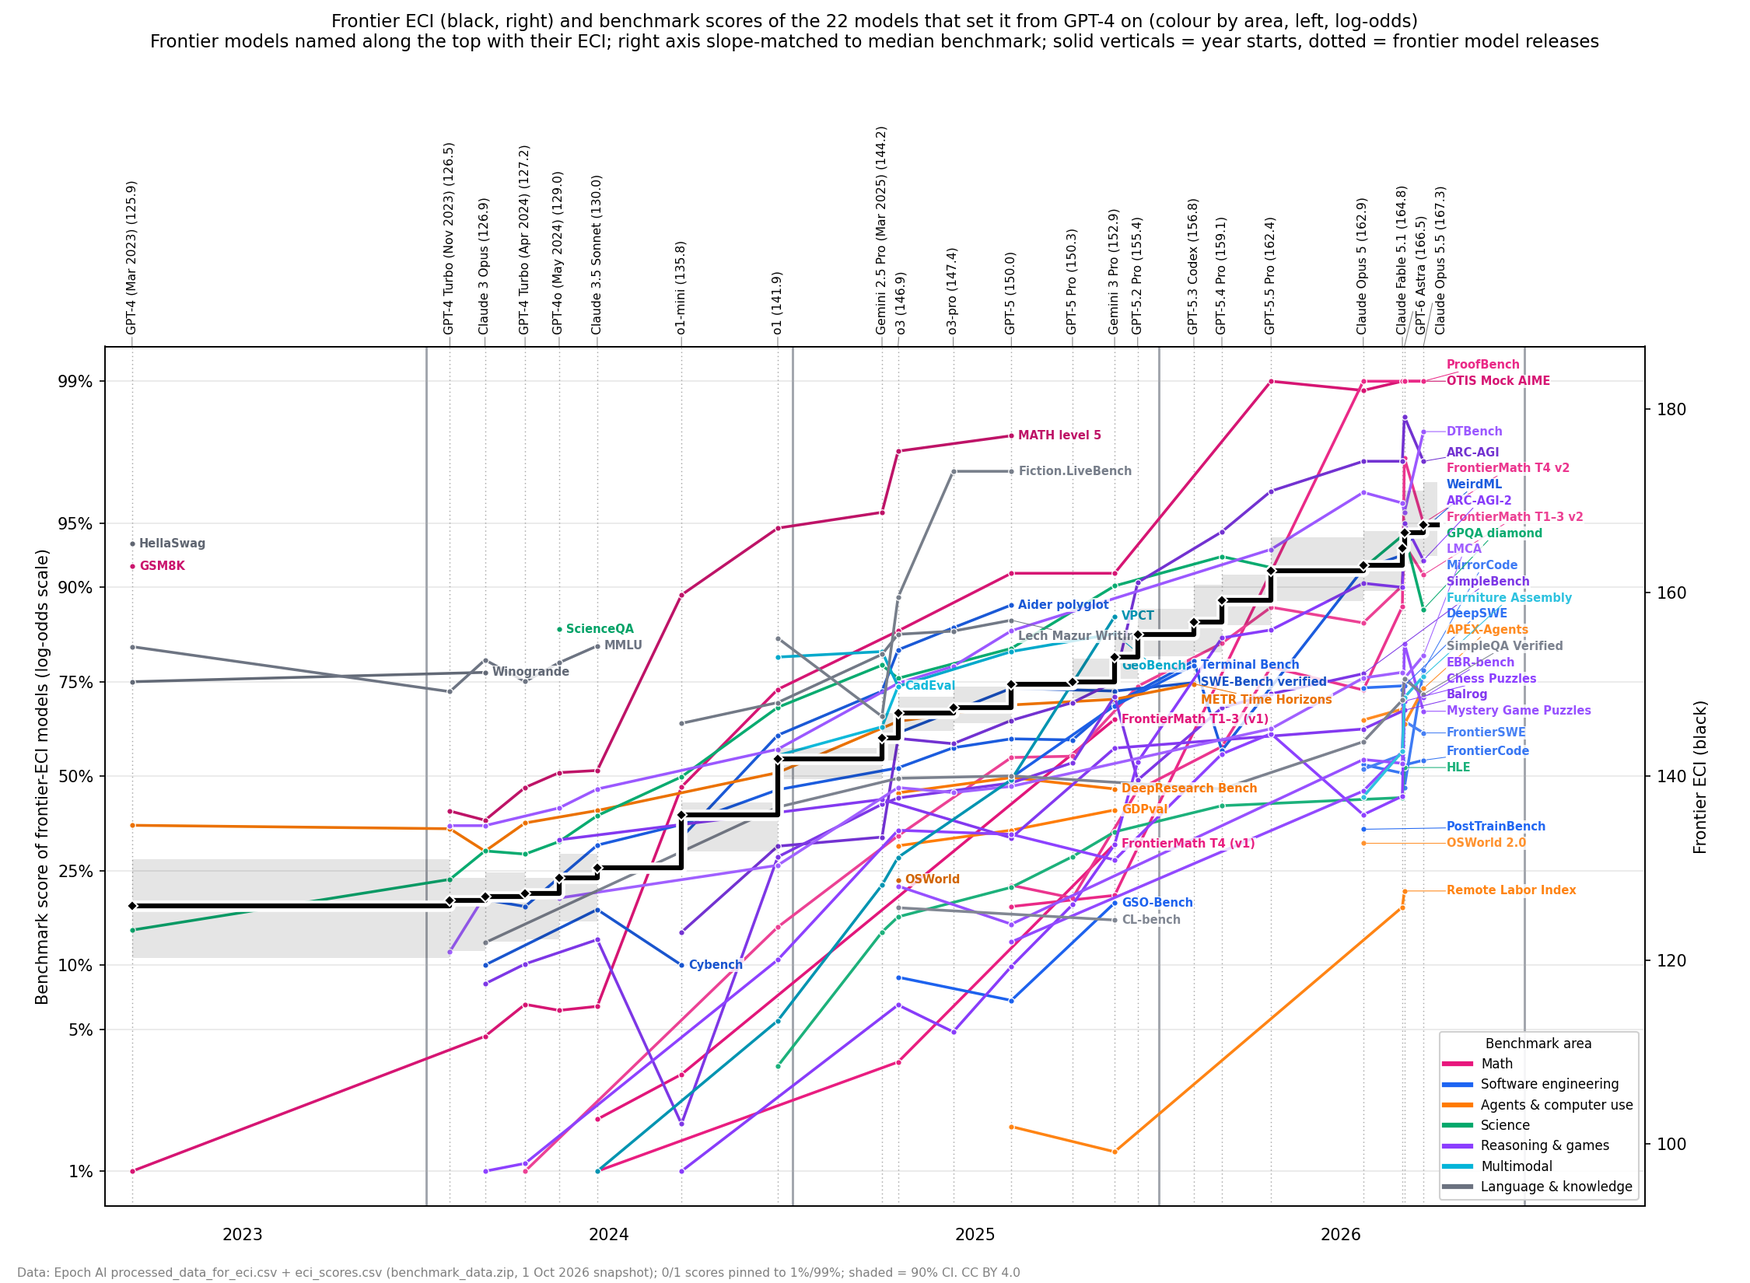
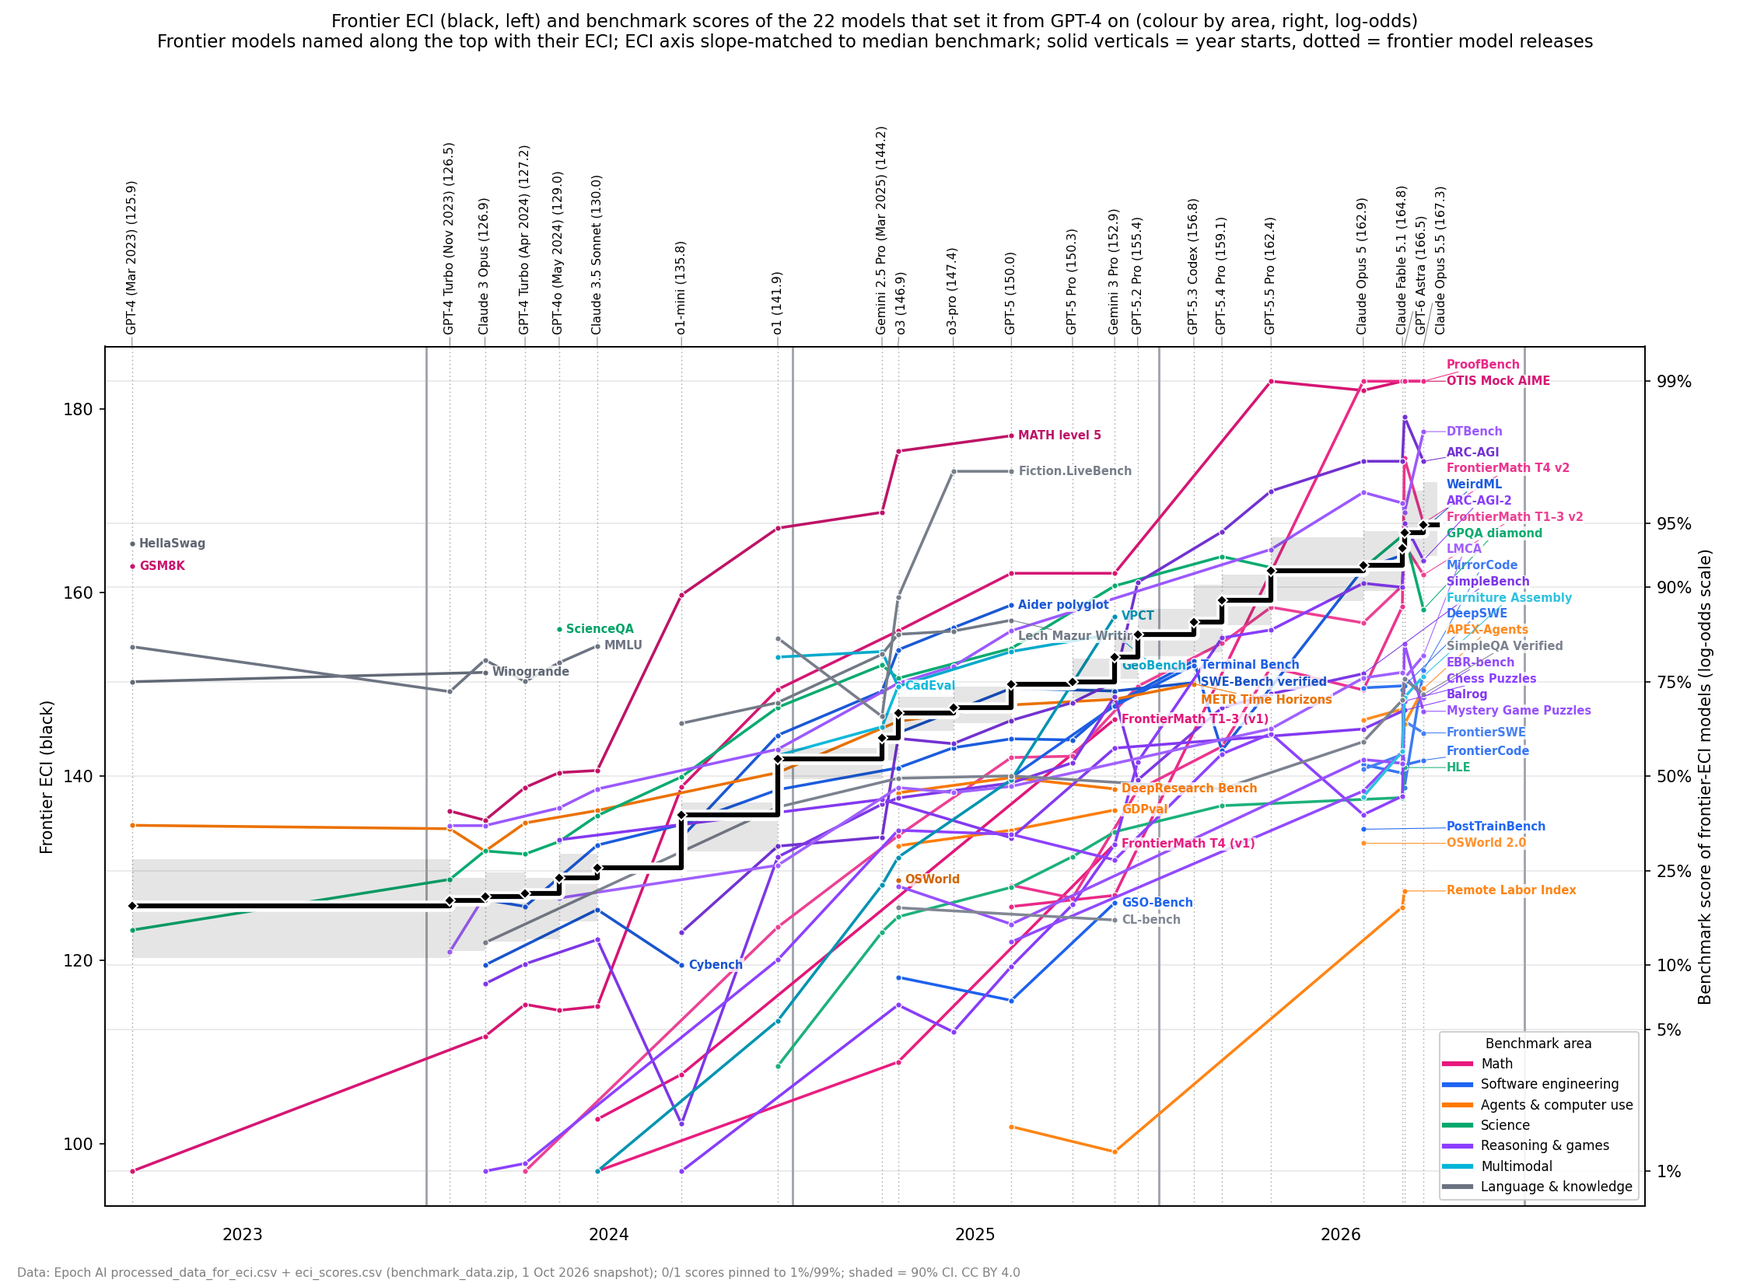
Start model labels at their leader line; put ECI on the left axis, log-odds on the right

diff --git a/index.html b/index.html
@@ -57,7 +57,7 @@ button:focus-visible,select:focus-visible{outline:2px solid var(--accent);outlin
 <div id="fallback" hidden><p class="lede">The interactive chart could not load here, so this is the static version.</p><img alt="Frontier ECI and benchmark scores chart" style="max-width:100%;height:auto" src="figures/eci_frontier_all.png"></div>
 <div class="notes">
  <p>Data: Epoch AI's own ECI fit input (processed_data_for_eci.csv) and published ECI scores (eci_scores.csv) from benchmark_data.zip, snapshot of 1 Oct 2026, shown from GPT-4 (14 Mar 2023) onward. Each model's lab is the first organisation Epoch lists for it; labs with at least five models in the period can be chosen above. Every score is already floor- and ceiling-adjusted: (raw − random-guess baseline) ÷ (attainable ceiling − baseline), clipped to [0, 1], taking the best version within each model group. Frontier ECI is the running maximum by release date, over all labs or over the chosen lab's models; where several models share a date only the highest counts. <span id="count"></span> ECIs come from Epoch's joint fit over every lab's models (including the few pre-GPT-4 models not shown), so a lab's frontier is directly comparable with the overall one.</p><p>Areas follow the primary domain tag on Epoch's ECI page, grouped into seven: Math; Software engineering (includes Cybench); Agents &amp; computer use; Science; Reasoning &amp; games (conceptual reasoning plus games); Multimodal; Language &amp; knowledge (language understanding, world knowledge, long context, writing). Seven benchmarks have no tag there and were assigned by hand: METR Time Horizons, DeepResearch Bench (agents), LMCA (reasoning), Lech Mazur Writing (language), GeoBench (multimodal), and the two FrontierMath v1 sets (math).</p>
- <p>Solid vertical lines mark the start of each year; dotted lines mark the release of each frontier model. The slope-matched right axis is scaled so a benchmark with the median fitted slope (0.107 logits per ECI point) runs parallel to the ECI line; steeper benchmarks climb faster than it. Scores of exactly 0 or 1 are pinned to 1% and 99%. Data CC BY 4.0, Epoch AI.</p>
+ <p>Solid vertical lines mark the start of each year; dotted lines mark the release of each frontier model. The slope-matched ECI axis is scaled so a benchmark with the median fitted slope (0.107 logits per ECI point) runs parallel to the ECI line; steeper benchmarks climb faster than it. Scores of exactly 0 or 1 are pinned to 1% and 99%. Data CC BY 4.0, Epoch AI.</p>
 </div>
 </main>
 <script>
@@ -82,7 +82,7 @@ function derive(){
  D.eci=F.map(o=>[o.d,o.m,o.e,o.lo,o.hi]);D.alleci=M.filter((o,i)=>mine.has(i)).map(o=>[o.d,o.m,o.e]);D.overall=lab?OV.map(o=>[o.d,o.m,o.e]):null;
  const who=lab?lab+"'s":'',n=F.length;
  document.getElementById('title').textContent=(lab?who+' frontier ECI':'Frontier ECI')+' and the benchmark scores behind it';
- document.getElementById('lede').textContent='Coloured lines are the benchmark scores of the '+n+(lab?' '+lab:'')+' models that set a new '+(lab?lab+' best':'frontier')+' ECI from GPT-4 onward (named along the top), in log-odds (left axis). Colour shows each benchmark’s area; tap an area to isolate it. The thick line is '+(lab?who+' frontier':'frontier')+' ECI itself (right axis), with its 90% interval'+(lab?'; the dashed grey line is the overall frontier across all labs.':'.');
+ document.getElementById('lede').textContent='Coloured lines are the benchmark scores of the '+n+(lab?' '+lab:'')+' models that set a new '+(lab?lab+' best':'frontier')+' ECI from GPT-4 onward (named along the top), in log-odds (right axis). Colour shows each benchmark’s area; tap an area to isolate it. The thick line is '+(lab?who+' frontier':'frontier')+' ECI itself (left axis), with its 90% interval'+(lab?'; the dashed grey line is the overall frontier across all labs.':'.');
  document.getElementById('count').textContent='The '+n+' record-setting models contribute '+nf.toLocaleString()+' of the '+nall.toLocaleString()+' '+(lab?lab+' ':'')+'scores shown, on '+nb+' of the '+B.length+' benchmarks.';
  [...sel.options].forEach(o=>{const d=B.find(x=>x.name===o.value);if(d)o.textContent=d.name+(d.rel?' ('+d.rel.slice(0,4)+')':'')+(d.fr.length?'':' – no record-setting-model scores')});
  document.title=lab?lab+' frontier ECI and benchmark scores':'ECI benchmarks in log-odds, with frontier ECI';
@@ -101,6 +101,9 @@ let view='frontier',ax='aligned',hl='',labels=innerWidth>=640;
 function short(n){return n.replace('FrontierMath-Tiers-1-3-v2-Private','FrontierMath T1–3 v2').replace('FrontierMath-Tier-4-v2-Private','FrontierMath T4 v2')
  .replace('FrontierMath-2025-02-28-Private','FrontierMath T1–3 (v1)').replace('FrontierMath-Tier-4-2025-07-01-Private','FrontierMath T4 (v1)').replace('OTIS Mock AIME 2024-2025','OTIS Mock AIME')}
 const END=RAW.snapshot,DAY=864e5,GUTTER='2026-06-01',GX='2026-10-12';
+// rotated annotations are centred on their anchor, so offset each by half its length to start it at the leader line
+const tctx=document.createElement('canvas').getContext('2d');
+function textW(t,size){tctx.font=size+'px "Public Sans", system-ui, sans-serif';return tctx.measureText(t).width}
 function modelAnns(){
  const el=document.getElementById('plot'),narrow=innerWidth<640;
  const W=Math.max(200,el.clientWidth-(narrow?80:124));
@@ -110,8 +113,8 @@ function modelAnns(){
  it.forEach((o,k)=>{o.lx=o.px;if(k&&o.lx<it[k-1].lx+g)o.lx=it[k-1].lx+g});
  for(let k=it.length-1;k>=0;k--){const cap=k===it.length-1?W-4:it[k+1].lx-g;if(it[k].lx>cap)it[k].lx=cap}
  const mut=css('--muted'),ink=css('--ink');
- return {anns:it.map(o=>({x:o.d,y:1,xref:'x',yref:'paper',ax:o.lx-o.px,ay:-16,axref:'pixel',ayref:'pixel',text:o.m+' ('+o.e.toFixed(1)+')',textangle:-90,
-   xanchor:'center',yanchor:'bottom',showarrow:true,arrowhead:0,arrowwidth:0.7,arrowcolor:mut,standoff:0,font:{size:narrow?9:10.5,color:ink},
+ return {anns:it.map(o=>({x:o.d,y:1,xref:'x',yref:'paper',ax:o.lx-o.px,ay:-16-textW(o.m+' ('+o.e.toFixed(1)+')',narrow?9:10.5)/2,axref:'pixel',ayref:'pixel',text:o.m+' ('+o.e.toFixed(1)+')',textangle:-90,
+   xanchor:'center',yanchor:'middle',showarrow:true,arrowhead:0,arrowwidth:0.7,arrowcolor:mut,standoff:0,font:{size:narrow?9:10.5,color:ink},
    hovertext:o.m+': ECI '+o.e.toFixed(1),captureevents:false})),
   lines:it.map(o=>({type:'line',xref:'x',yref:'paper',x0:o.d,x1:o.d,y0:0,y1:1,line:{color:ink,width:0.8,dash:'dot'},layer:'below',opacity:.32}))};
 }
@@ -174,9 +177,9 @@ function build(){
  const layout={paper_bgcolor:'rgba(0,0,0,0)',plot_bgcolor:'rgba(0,0,0,0)',font:{family:'Public Sans, system-ui, sans-serif',color:ink,size:12},
   margin:{l:narrow?42:62,r:narrow?38:62,t:narrow?175:185,b:40},hovermode:'closest',dragmode:narrow?false:'zoom',
   xaxis:{type:'date',showgrid:false,zeroline:false,dtick:'M12',tick0:'2023-01-01',tickformat:'%Y',ticklabelmode:'period',ticks:'',range:['2023-02-15',labels?'2027-06-15':'2026-10-31'],tickfont:{color:mut}},annotations:(labels?labelAnns():[]).concat(MA.anns),shapes:bandShapes.concat(['2024','2025','2026','2027'].map(y=>({type:'line',xref:'x',yref:'paper',x0:y+'-01-01',x1:y+'-01-01',y0:0,y1:1,line:{color:mut,width:1.4},opacity:.55,layer:'below'}))).concat(MA.lines),
-  yaxis:{title:narrow?null:{text:'Benchmark score (log-odds scale)',font:{color:mut}},range:[-5,5],gridcolor:grid,zeroline:false,
+  yaxis:{title:narrow?null:{text:'Benchmark score (log-odds scale)',font:{color:mut}},side:'right',range:[-5,5],gridcolor:grid,zeroline:false,
    tickvals:pct.map(p=>Math.log(p/(1-p))),ticktext:pct.map(p=>(p*100)+'%'),tickfont:{color:mut}},
-  yaxis2:{title:narrow?null:{text:(lab?lab+' frontier':'Frontier')+' ECI',font:{color:ink}},overlaying:'y',side:'right',range:r2,showgrid:false,zeroline:false,tickfont:{color:ink},dtick:10},
+  yaxis2:{title:narrow?null:{text:(lab?lab+' frontier':'Frontier')+' ECI',font:{color:ink}},overlaying:'y',side:'left',range:r2,showgrid:false,zeroline:false,tickfont:{color:ink},dtick:10},
   hoverlabel:{font:{family:'Public Sans, system-ui, sans-serif'}}};
  Plotly.react('plot',tr,layout,{responsive:true,displaylogo:false,modeBarButtonsToRemove:['lasso2d','select2d']});
 }
@@ -188,6 +191,7 @@ sel.onchange=()=>{hl=sel.value;build()};
 ls.onchange=()=>{lab=ls.value;derive();build();try{history.replaceState(null,'',lab?'#lab='+encodeURIComponent(lab):location.pathname+location.search)}catch(e){}};
 addEventListener('hashchange',()=>{lab=fromHash();ls.value=lab;derive();build()});
 build();
+if(document.fonts)document.fonts.ready.then(build);
 const el=document.getElementById('plot');
 el.on('plotly_click',e=>{const n=e.points[0].data.name;if(!n||n==='Frontier ECI'||n.startsWith('trace'))return;hl=(hl===n)?'':n;sel.value=hl;build()});
 matchMedia('(prefers-color-scheme: dark)').addEventListener('change',build);

diff --git a/scripts/page_template.html b/scripts/page_template.html
@@ -57,7 +57,7 @@ button:focus-visible,select:focus-visible{outline:2px solid var(--accent);outlin
 <div id="fallback" hidden><p class="lede">The interactive chart could not load here, so this is the static version.</p><img alt="Frontier ECI and benchmark scores chart" style="max-width:100%;height:auto" src="figures/eci_frontier_all.png"></div>
 <div class="notes">
  <p>Data: Epoch AI's own ECI fit input (processed_data_for_eci.csv) and published ECI scores (eci_scores.csv) from benchmark_data.zip, snapshot of 1 Oct 2026, shown from GPT-4 (14 Mar 2023) onward. Each model's lab is the first organisation Epoch lists for it; labs with at least five models in the period can be chosen above. Every score is already floor- and ceiling-adjusted: (raw − random-guess baseline) ÷ (attainable ceiling − baseline), clipped to [0, 1], taking the best version within each model group. Frontier ECI is the running maximum by release date, over all labs or over the chosen lab's models; where several models share a date only the highest counts. <span id="count"></span> ECIs come from Epoch's joint fit over every lab's models (including the few pre-GPT-4 models not shown), so a lab's frontier is directly comparable with the overall one.</p><p>Areas follow the primary domain tag on Epoch's ECI page, grouped into seven: Math; Software engineering (includes Cybench); Agents &amp; computer use; Science; Reasoning &amp; games (conceptual reasoning plus games); Multimodal; Language &amp; knowledge (language understanding, world knowledge, long context, writing). Seven benchmarks have no tag there and were assigned by hand: METR Time Horizons, DeepResearch Bench (agents), LMCA (reasoning), Lech Mazur Writing (language), GeoBench (multimodal), and the two FrontierMath v1 sets (math).</p>
- <p>Solid vertical lines mark the start of each year; dotted lines mark the release of each frontier model. The slope-matched right axis is scaled so a benchmark with the median fitted slope (0.107 logits per ECI point) runs parallel to the ECI line; steeper benchmarks climb faster than it. Scores of exactly 0 or 1 are pinned to 1% and 99%. Data CC BY 4.0, Epoch AI.</p>
+ <p>Solid vertical lines mark the start of each year; dotted lines mark the release of each frontier model. The slope-matched ECI axis is scaled so a benchmark with the median fitted slope (0.107 logits per ECI point) runs parallel to the ECI line; steeper benchmarks climb faster than it. Scores of exactly 0 or 1 are pinned to 1% and 99%. Data CC BY 4.0, Epoch AI.</p>
 </div>
 </main>
 <script>
@@ -82,7 +82,7 @@ function derive(){
  D.eci=F.map(o=>[o.d,o.m,o.e,o.lo,o.hi]);D.alleci=M.filter((o,i)=>mine.has(i)).map(o=>[o.d,o.m,o.e]);D.overall=lab?OV.map(o=>[o.d,o.m,o.e]):null;
  const who=lab?lab+"'s":'',n=F.length;
  document.getElementById('title').textContent=(lab?who+' frontier ECI':'Frontier ECI')+' and the benchmark scores behind it';
- document.getElementById('lede').textContent='Coloured lines are the benchmark scores of the '+n+(lab?' '+lab:'')+' models that set a new '+(lab?lab+' best':'frontier')+' ECI from GPT-4 onward (named along the top), in log-odds (left axis). Colour shows each benchmark’s area; tap an area to isolate it. The thick line is '+(lab?who+' frontier':'frontier')+' ECI itself (right axis), with its 90% interval'+(lab?'; the dashed grey line is the overall frontier across all labs.':'.');
+ document.getElementById('lede').textContent='Coloured lines are the benchmark scores of the '+n+(lab?' '+lab:'')+' models that set a new '+(lab?lab+' best':'frontier')+' ECI from GPT-4 onward (named along the top), in log-odds (right axis). Colour shows each benchmark’s area; tap an area to isolate it. The thick line is '+(lab?who+' frontier':'frontier')+' ECI itself (left axis), with its 90% interval'+(lab?'; the dashed grey line is the overall frontier across all labs.':'.');
  document.getElementById('count').textContent='The '+n+' record-setting models contribute '+nf.toLocaleString()+' of the '+nall.toLocaleString()+' '+(lab?lab+' ':'')+'scores shown, on '+nb+' of the '+B.length+' benchmarks.';
  [...sel.options].forEach(o=>{const d=B.find(x=>x.name===o.value);if(d)o.textContent=d.name+(d.rel?' ('+d.rel.slice(0,4)+')':'')+(d.fr.length?'':' – no record-setting-model scores')});
  document.title=lab?lab+' frontier ECI and benchmark scores':'ECI benchmarks in log-odds, with frontier ECI';
@@ -101,6 +101,9 @@ let view='frontier',ax='aligned',hl='',labels=innerWidth>=640;
 function short(n){return n.replace('FrontierMath-Tiers-1-3-v2-Private','FrontierMath T1–3 v2').replace('FrontierMath-Tier-4-v2-Private','FrontierMath T4 v2')
  .replace('FrontierMath-2025-02-28-Private','FrontierMath T1–3 (v1)').replace('FrontierMath-Tier-4-2025-07-01-Private','FrontierMath T4 (v1)').replace('OTIS Mock AIME 2024-2025','OTIS Mock AIME')}
 const END=RAW.snapshot,DAY=864e5,GUTTER='2026-06-01',GX='2026-10-12';
+// rotated annotations are centred on their anchor, so offset each by half its length to start it at the leader line
+const tctx=document.createElement('canvas').getContext('2d');
+function textW(t,size){tctx.font=size+'px "Public Sans", system-ui, sans-serif';return tctx.measureText(t).width}
 function modelAnns(){
  const el=document.getElementById('plot'),narrow=innerWidth<640;
  const W=Math.max(200,el.clientWidth-(narrow?80:124));
@@ -110,8 +113,8 @@ function modelAnns(){
  it.forEach((o,k)=>{o.lx=o.px;if(k&&o.lx<it[k-1].lx+g)o.lx=it[k-1].lx+g});
  for(let k=it.length-1;k>=0;k--){const cap=k===it.length-1?W-4:it[k+1].lx-g;if(it[k].lx>cap)it[k].lx=cap}
  const mut=css('--muted'),ink=css('--ink');
- return {anns:it.map(o=>({x:o.d,y:1,xref:'x',yref:'paper',ax:o.lx-o.px,ay:-16,axref:'pixel',ayref:'pixel',text:o.m+' ('+o.e.toFixed(1)+')',textangle:-90,
-   xanchor:'center',yanchor:'bottom',showarrow:true,arrowhead:0,arrowwidth:0.7,arrowcolor:mut,standoff:0,font:{size:narrow?9:10.5,color:ink},
+ return {anns:it.map(o=>({x:o.d,y:1,xref:'x',yref:'paper',ax:o.lx-o.px,ay:-16-textW(o.m+' ('+o.e.toFixed(1)+')',narrow?9:10.5)/2,axref:'pixel',ayref:'pixel',text:o.m+' ('+o.e.toFixed(1)+')',textangle:-90,
+   xanchor:'center',yanchor:'middle',showarrow:true,arrowhead:0,arrowwidth:0.7,arrowcolor:mut,standoff:0,font:{size:narrow?9:10.5,color:ink},
    hovertext:o.m+': ECI '+o.e.toFixed(1),captureevents:false})),
   lines:it.map(o=>({type:'line',xref:'x',yref:'paper',x0:o.d,x1:o.d,y0:0,y1:1,line:{color:ink,width:0.8,dash:'dot'},layer:'below',opacity:.32}))};
 }
@@ -174,9 +177,9 @@ function build(){
  const layout={paper_bgcolor:'rgba(0,0,0,0)',plot_bgcolor:'rgba(0,0,0,0)',font:{family:'Public Sans, system-ui, sans-serif',color:ink,size:12},
   margin:{l:narrow?42:62,r:narrow?38:62,t:narrow?175:185,b:40},hovermode:'closest',dragmode:narrow?false:'zoom',
   xaxis:{type:'date',showgrid:false,zeroline:false,dtick:'M12',tick0:'2023-01-01',tickformat:'%Y',ticklabelmode:'period',ticks:'',range:['2023-02-15',labels?'2027-06-15':'2026-10-31'],tickfont:{color:mut}},annotations:(labels?labelAnns():[]).concat(MA.anns),shapes:bandShapes.concat(['2024','2025','2026','2027'].map(y=>({type:'line',xref:'x',yref:'paper',x0:y+'-01-01',x1:y+'-01-01',y0:0,y1:1,line:{color:mut,width:1.4},opacity:.55,layer:'below'}))).concat(MA.lines),
-  yaxis:{title:narrow?null:{text:'Benchmark score (log-odds scale)',font:{color:mut}},range:[-5,5],gridcolor:grid,zeroline:false,
+  yaxis:{title:narrow?null:{text:'Benchmark score (log-odds scale)',font:{color:mut}},side:'right',range:[-5,5],gridcolor:grid,zeroline:false,
    tickvals:pct.map(p=>Math.log(p/(1-p))),ticktext:pct.map(p=>(p*100)+'%'),tickfont:{color:mut}},
-  yaxis2:{title:narrow?null:{text:(lab?lab+' frontier':'Frontier')+' ECI',font:{color:ink}},overlaying:'y',side:'right',range:r2,showgrid:false,zeroline:false,tickfont:{color:ink},dtick:10},
+  yaxis2:{title:narrow?null:{text:(lab?lab+' frontier':'Frontier')+' ECI',font:{color:ink}},overlaying:'y',side:'left',range:r2,showgrid:false,zeroline:false,tickfont:{color:ink},dtick:10},
   hoverlabel:{font:{family:'Public Sans, system-ui, sans-serif'}}};
  Plotly.react('plot',tr,layout,{responsive:true,displaylogo:false,modeBarButtonsToRemove:['lasso2d','select2d']});
 }
@@ -188,6 +191,7 @@ sel.onchange=()=>{hl=sel.value;build()};
 ls.onchange=()=>{lab=ls.value;derive();build();try{history.replaceState(null,'',lab?'#lab='+encodeURIComponent(lab):location.pathname+location.search)}catch(e){}};
 addEventListener('hashchange',()=>{lab=fromHash();ls.value=lab;derive();build()});
 build();
+if(document.fonts)document.fonts.ready.then(build);
 const el=document.getElementById('plot');
 el.on('plotly_click',e=>{const n=e.points[0].data.name;if(!n||n==='Frontier ECI'||n.startsWith('trace'))return;hl=(hl===n)?'':n;sel.value=hl;build()});
 matchMedia('(prefers-color-scheme: dark)').addEventListener('change',build);

diff --git a/scripts/make_figure.py b/scripts/make_figure.py
@@ -67,6 +67,7 @@ a2.fill_between(x,lo+[lo[-1]],hi+[hi[-1]],step='post',color='k',alpha=.1,lw=0)
 import matplotlib.patheffects as pe
 a2.step(x,y,where='post',color='k',lw=3,path_effects=[pe.Stroke(linewidth=7,foreground='white'),pe.Normal()]); a2.plot(x[:-1],y[:-1],'kD',ms=5,mec='white',mew=1)
 span=10/0.106875; a2.set_ylim(140-span/2,140+span/2); a2.set_ylabel('Frontier ECI (black)')
-fig.suptitle('Frontier ECI (black, right) and benchmark scores of the 22 models that set it from GPT-4 on (colour by area, left, log-odds)\nFrontier models named along the top with their ECI; right axis slope-matched to median benchmark; solid verticals = year starts, dotted = frontier model releases',fontsize=11,y=.99)
+ax.yaxis.tick_right(); ax.yaxis.set_label_position('right'); a2.yaxis.tick_left(); a2.yaxis.set_label_position('left')
+fig.suptitle('Frontier ECI (black, left) and benchmark scores of the 22 models that set it from GPT-4 on (colour by area, right, log-odds)\nFrontier models named along the top with their ECI; ECI axis slope-matched to median benchmark; solid verticals = year starts, dotted = frontier model releases',fontsize=11,y=.99)
 fig.text(0.01,0.005,'Data: Epoch AI processed_data_for_eci.csv + eci_scores.csv (benchmark_data.zip, 1 Oct 2026 snapshot); 0/1 scores pinned to 1%/99%; shaded = 90% CI. CC BY 4.0',fontsize=7.5,color='gray')
 fig.savefig(OUT)

diff --git a/README.md b/README.md
@@ -9,8 +9,8 @@ so on a log-odds scale every benchmark should rise linearly with ECI. These char
 ![Frontier ECI and benchmark scores, all labs](figures/eci_frontier_all.png)
 
 - **Interactive version:** https://tecunningham.github.io/eci-benchmark-logodds/ (source [`index.html`](index.html)). Choose a lab to see that lab's own frontier (running best ECI among its models), with the overall frontier dashed for comparison. Link straight to a lab with `#lab=<name>`, e.g. `#lab=OpenAI`.
-- **Left axis:** each benchmark's score for the models that set a new frontier ECI, as log-odds, labelled in percent. Colour is the benchmark's area.
-- **Right axis:** frontier ECI (running maximum by release date) with its 90% interval. The axis is scaled so a benchmark with the median fitted slope (0.107 logits per ECI point) runs parallel to the ECI line.
+- **Right axis:** each benchmark's score for the models that set a new frontier ECI, as log-odds, labelled in percent. Colour is the benchmark's area.
+- **Left axis:** frontier ECI (running maximum by release date) with its 90% interval. The axis is scaled so a benchmark with the median fitted slope (0.107 logits per ECI point) runs parallel to the ECI line.
 - **Top:** the 22 record-setting models from GPT-4 (Mar 2023) on, with their ECI.
 
 ## Data
